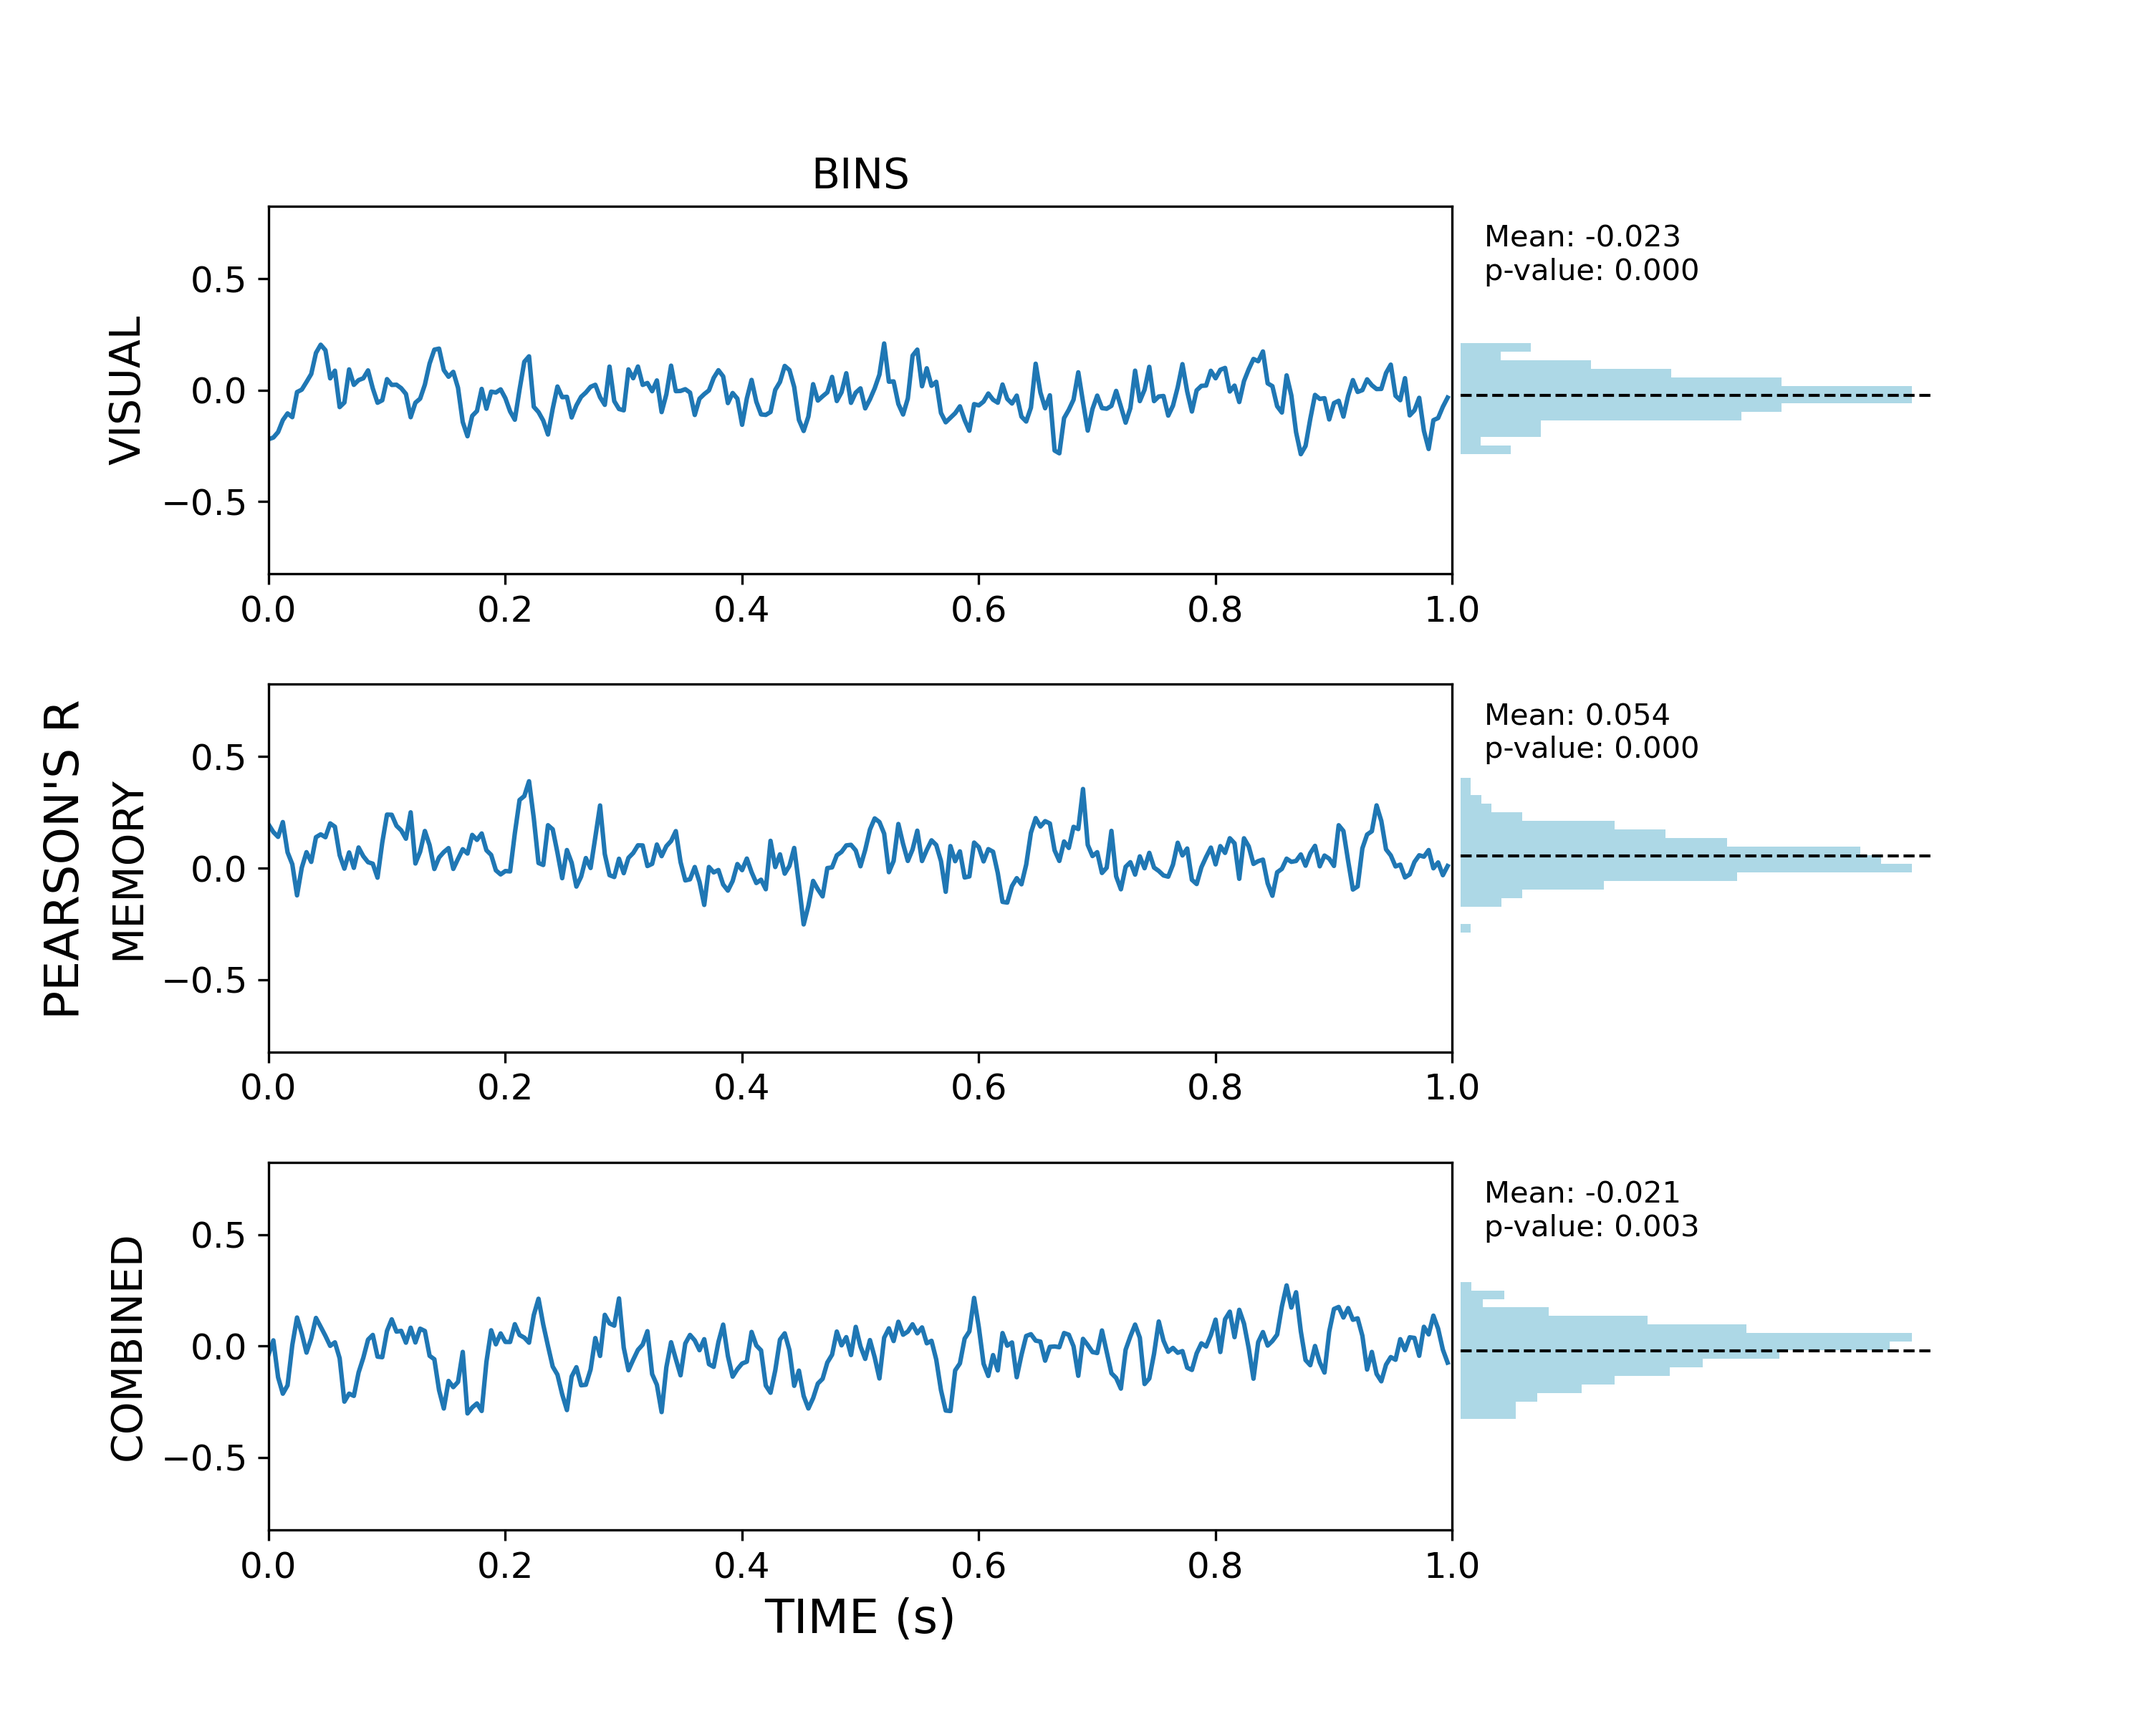
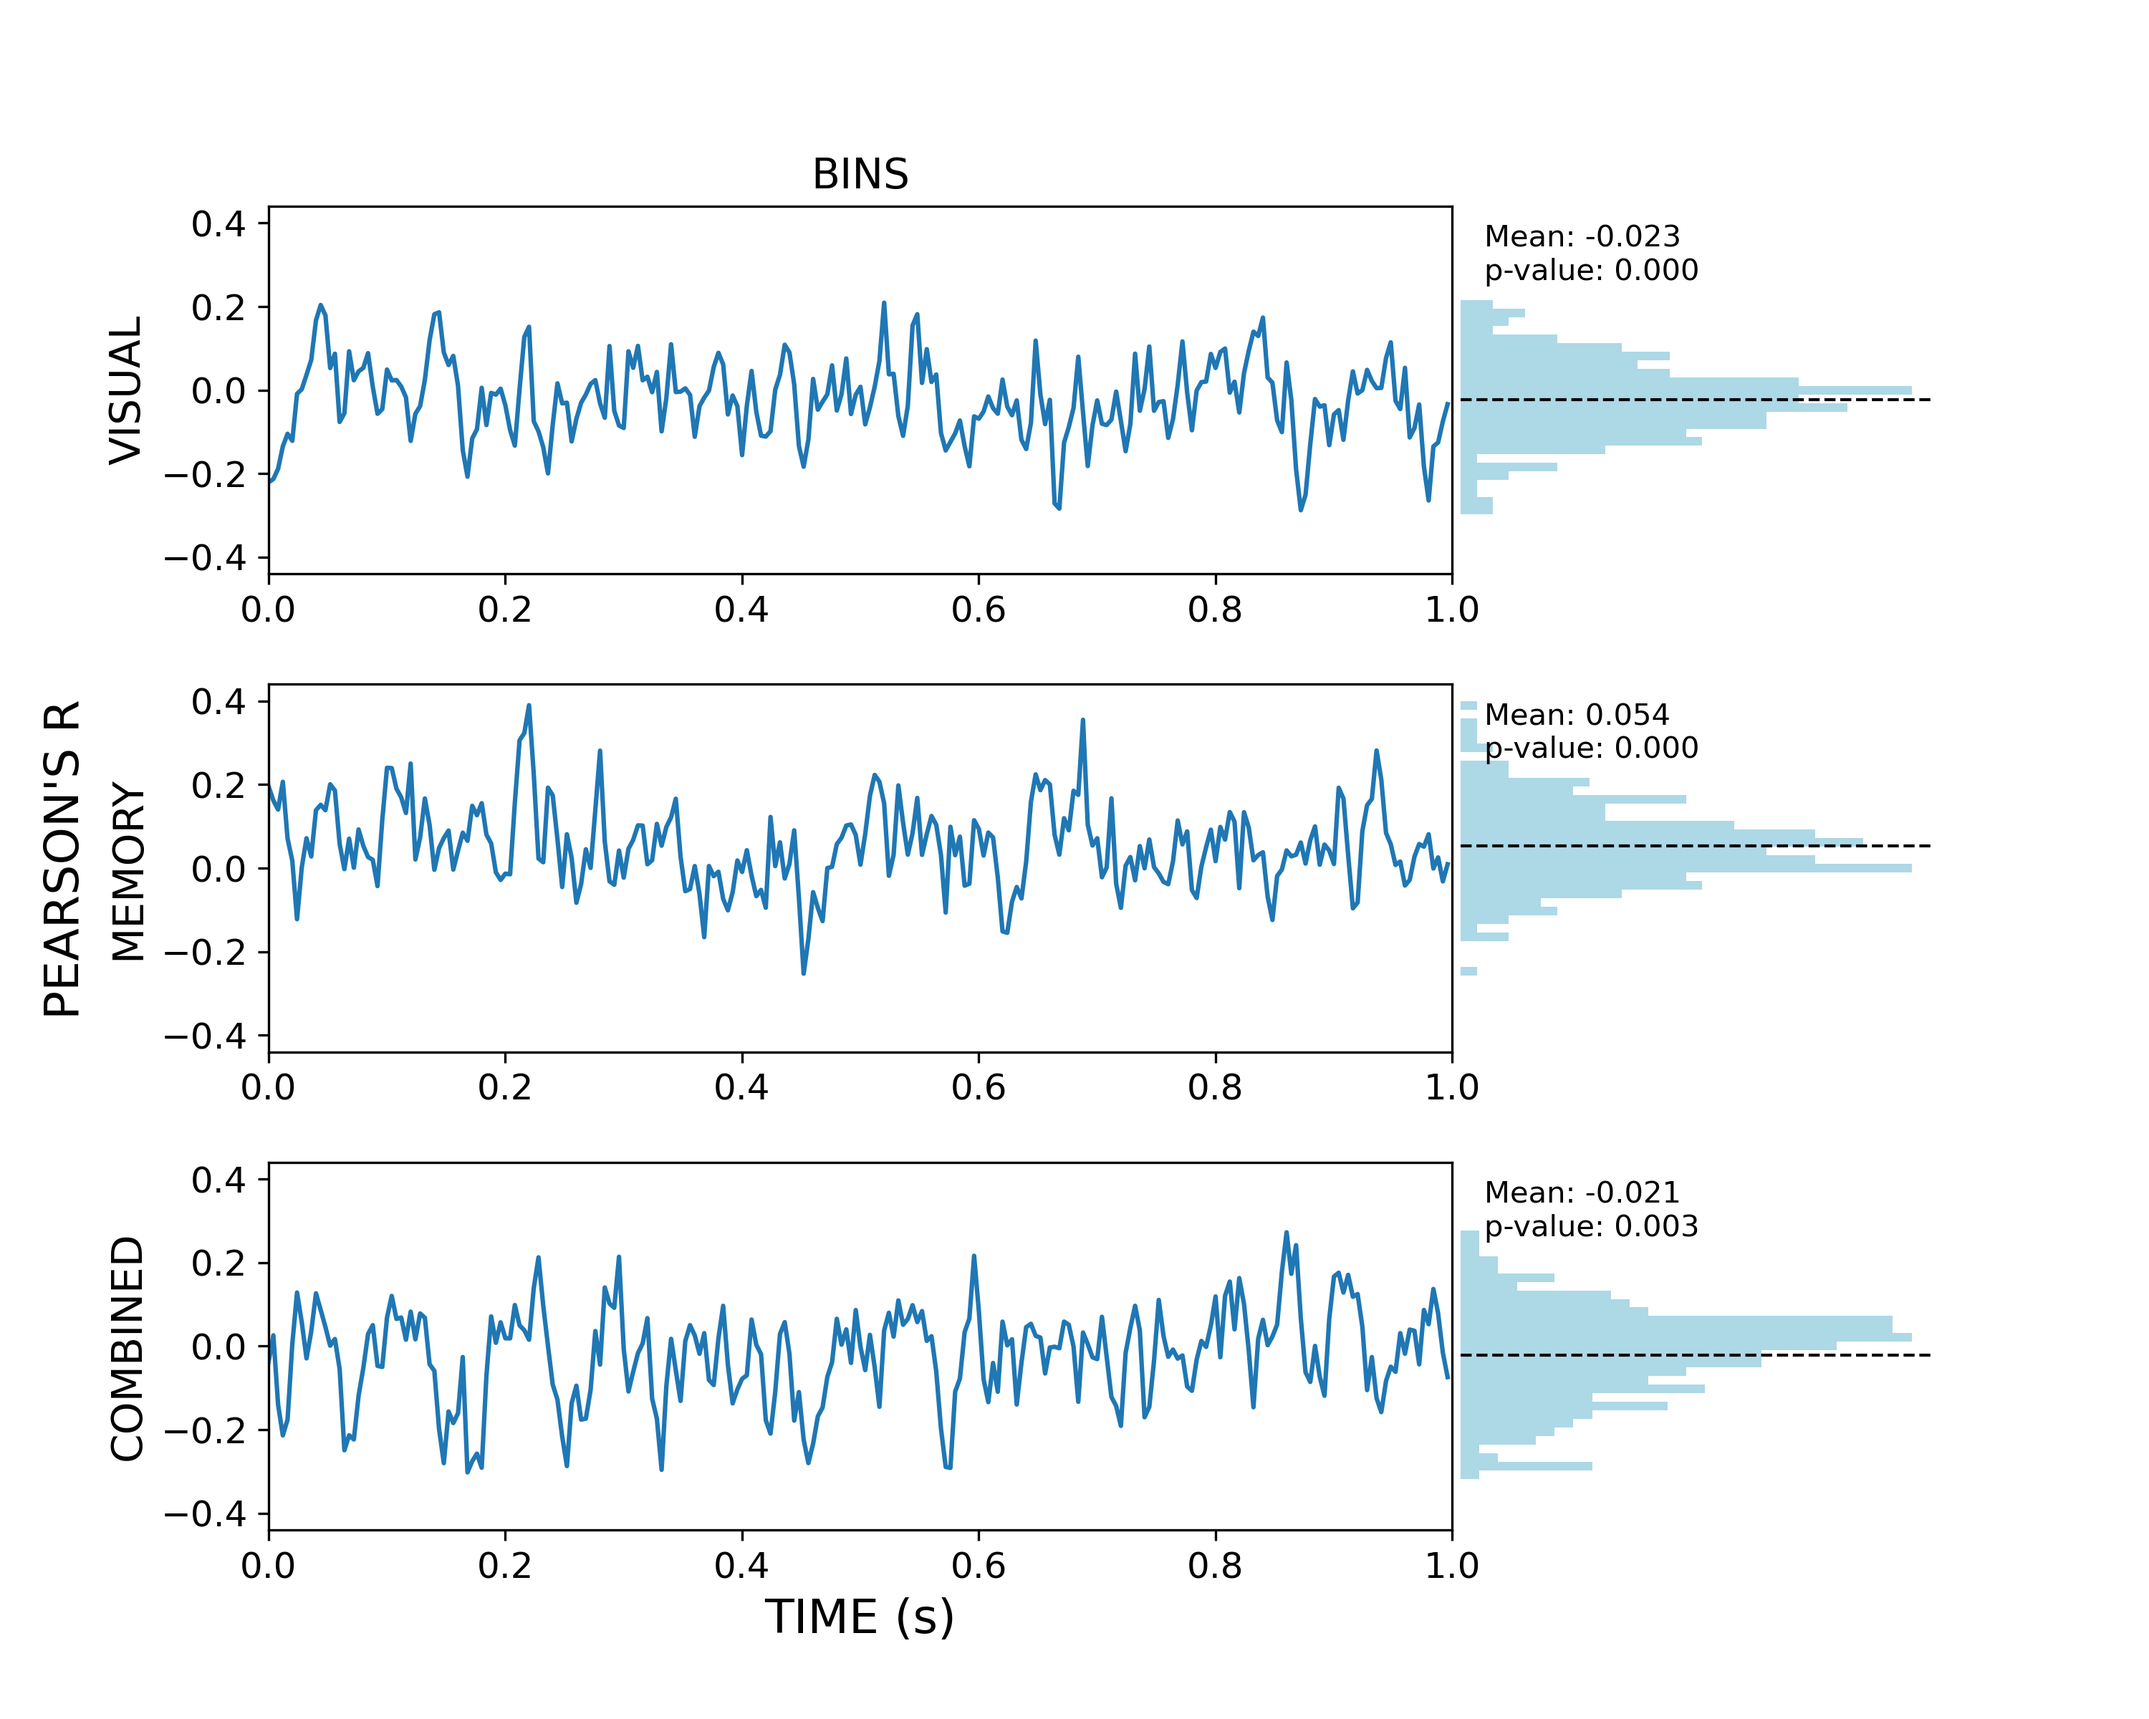
change bin range

diff --git a/decoding/cross_bins/dist_acc_corr.py b/decoding/cross_bins/dist_acc_corr.py
@@ -98,7 +98,7 @@ def plot_corr_hist(vis_acc, mem_acc, all_acc, save_path = None):
     gs_kw = dict(width_ratios=[1, 0.4], height_ratios=[1, 1, 1], wspace=0.01, hspace=0.3)
     fig, axes = plt.subplots(3, 2, figsize=(10, 8), dpi=300, gridspec_kw=gs_kw, sharey=True)
 
-    bin_range = (-0.75, 0.75)
+    bin_range = (-0.4, 0.4)
 
     bins = np.linspace(bin_range[0], bin_range[1], 40)
 
